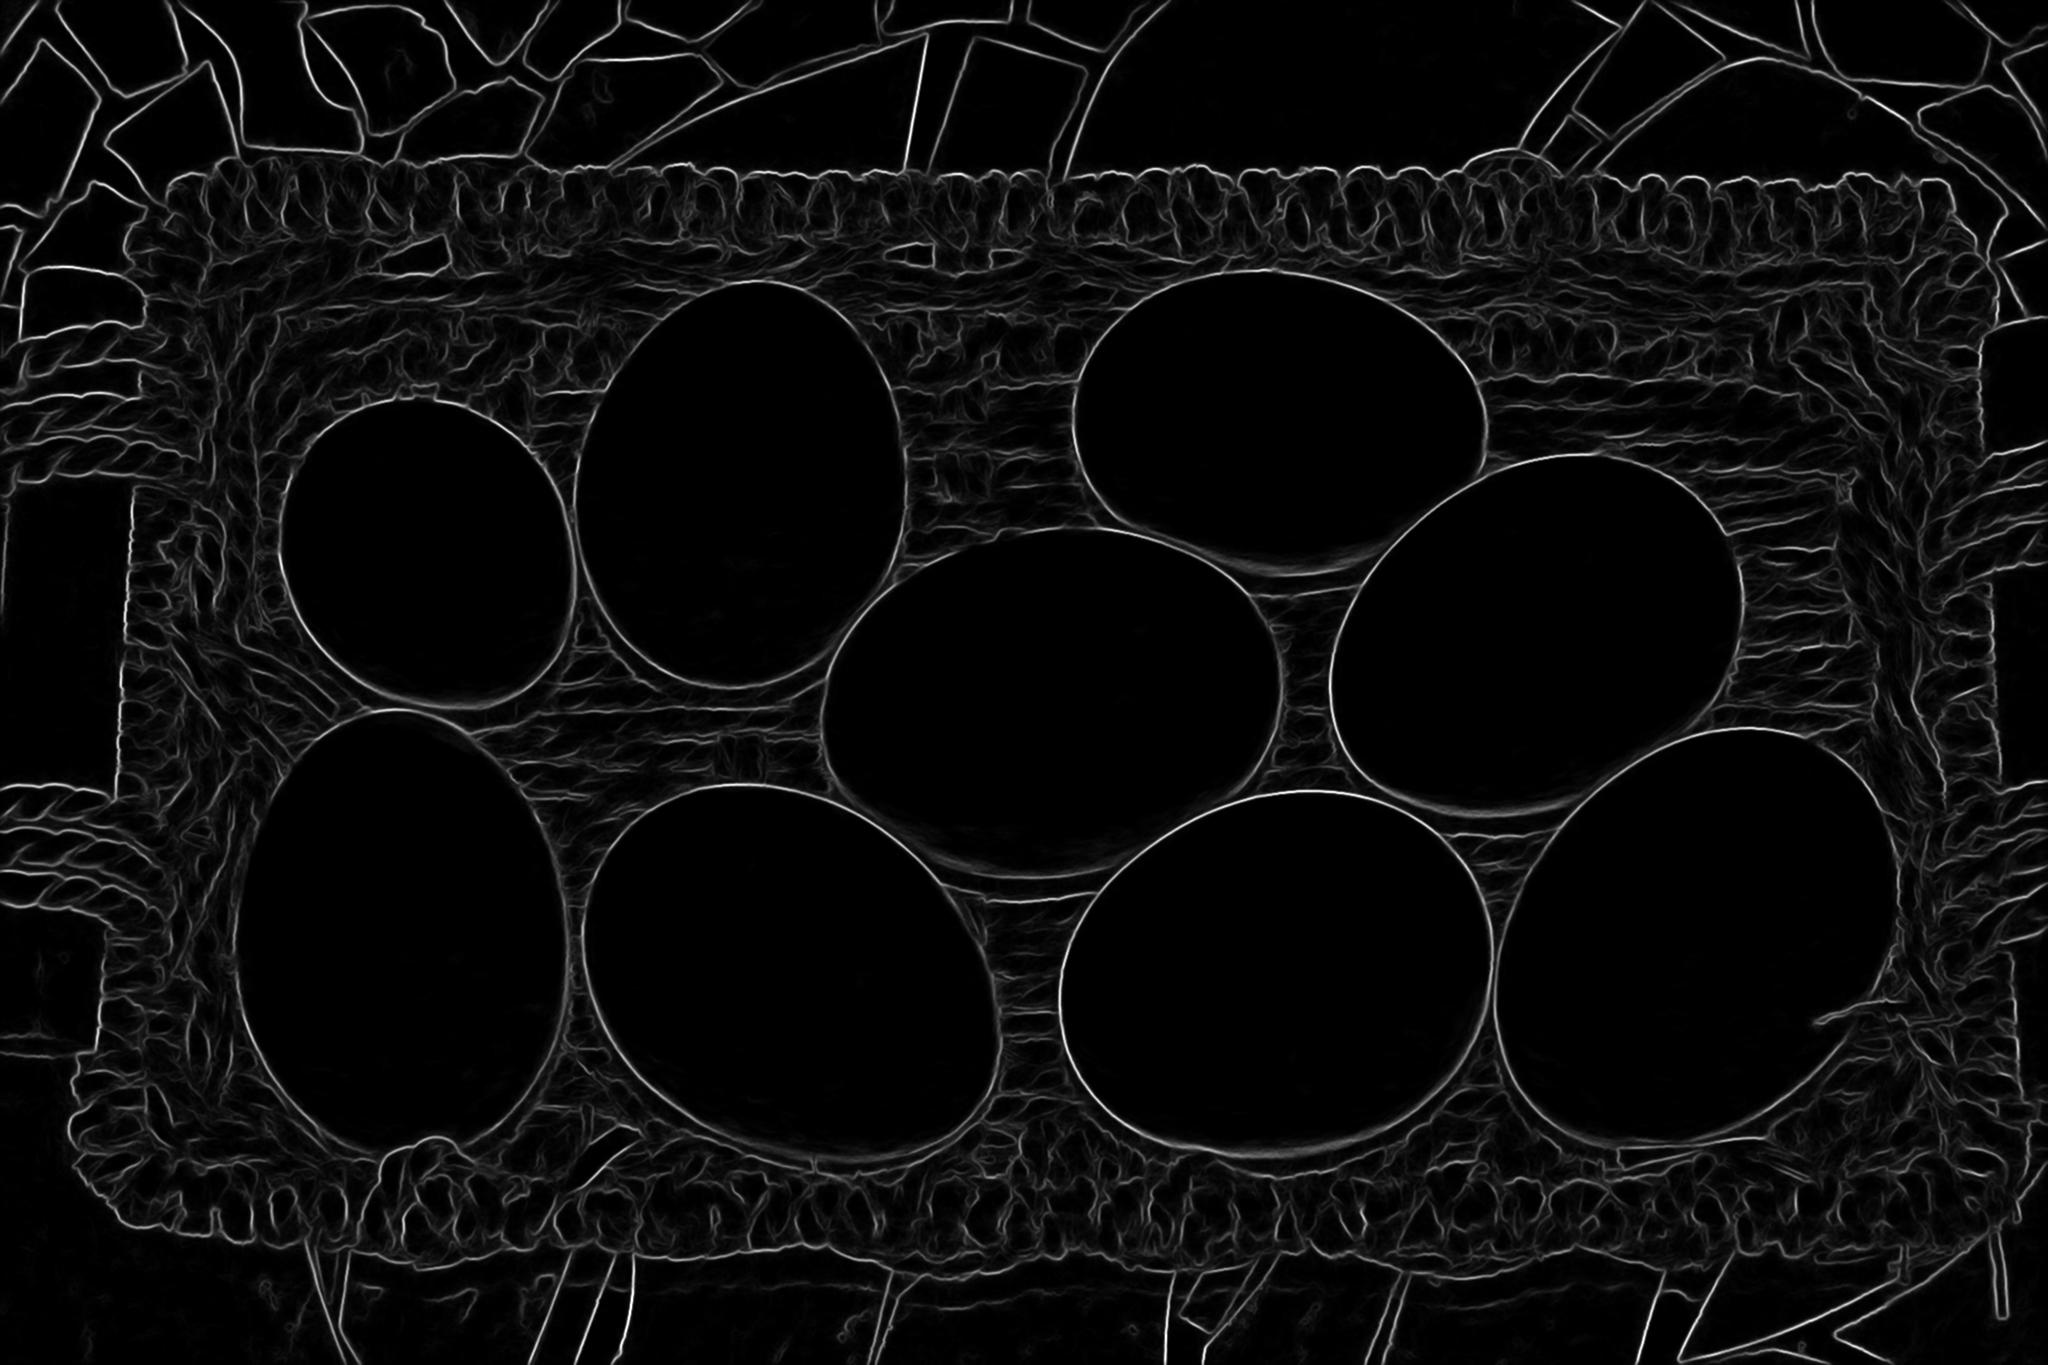
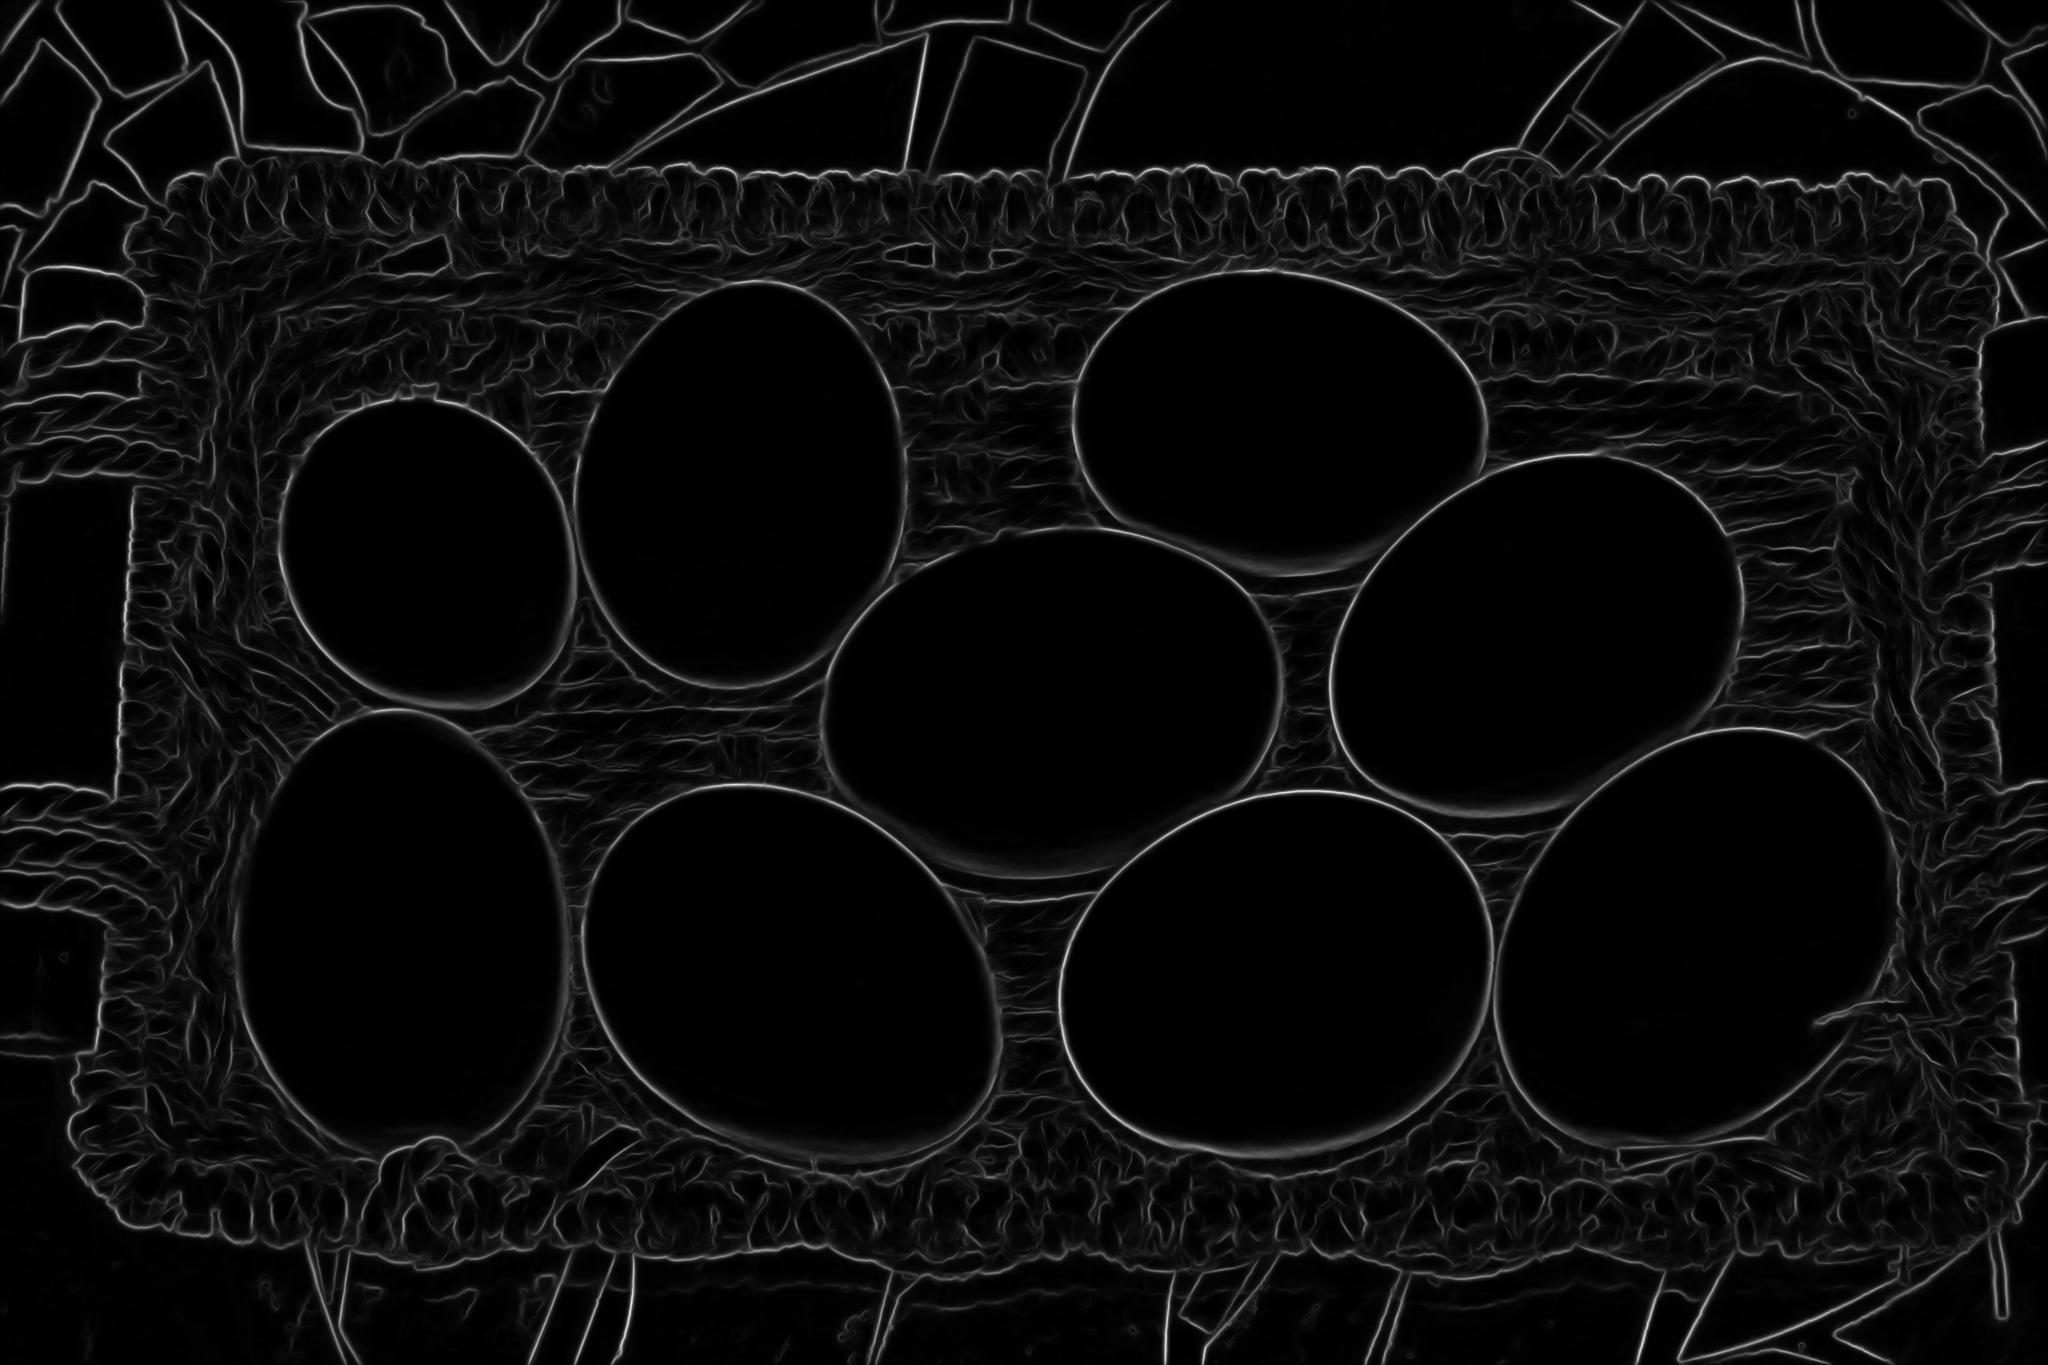
run hed edge

diff --git a/src/find_repeat_pattern.py b/src/find_repeat_pattern.py
@@ -11,6 +11,7 @@ from canny import canny_edge_detect
 from utils import check_overlap, avg_img_gradient, evaluate_detection_performance
 from misc import check_and_cluster, ContourDrawer
 from ipdb import set_trace as pdb
+from tqdm import tqdm
 
 GREEN = (0, 255, 0)
 BLUE = (255, 0, 0)
@@ -39,14 +40,19 @@ _gray_value_redistribution_local = True
 _evaluate = False
 
 input_path = '../input/image/'
-edge_path = '../input/edge_image/'  # structure forest output
-output_path = '../output/'
+# edge_path = '../input/edge_image/'  # structure forest output
+# output_path = '../output/'
+edge_path = '../input/hed_edge_image/'  # hed edge
+output_path = '../output_hed/'
+
 csv_output = '../output_csv_6_8[combine_result_before_filter_obvious]/'
 evaluate_csv_path = '../evaluate_data/groundtruth_csv/generalize_csv/'
 
-DRAW_PROCESS = True
-TEST = True
-TEST_IMG = 'IMG_ (33).jpg'
+DRAW_PROCESS = False
+IMG_LIST = ['IMG_ (19).jpg', 'IMG_ (28).jpg', 'IMG_ (29).jpg', ]
+TEST = False
+TEST_IMG = 'IMG_ (1).jpg'
+EXCEPTION_LIST = ['IMG_ (3).jpg', 'IMG_ (9).jpg']
 
 def get_edge_group(drawer, edged, edge_type, do_enhance=False, do_draw=False):
     if do_draw:
@@ -82,7 +88,8 @@ max_time = 0.0
 evaluation_csv = [['Image name', 'TP', 'FP', 'FN', 'Precision', 'Recall', 'F_measure', 'Error_rate']]
 
 
-for i, img_name in enumerate(os.listdir(input_path)):
+# for i, img_name in enumerate(tqdm(os.listdir(input_path))):
+for i, img_name in enumerate(tqdm(IMG_LIST)):
     start_time = time.time()
 
     if TEST:
@@ -101,8 +108,12 @@ for i, img_name in enumerate(os.listdir(input_path)):
     # decide whcih method (canny/structure forest)
     _use_structure_edge = True
     if _use_structure_edge:
-        edge_img = edge_path + img_name + '_edge.jpg'
-        assert os.path.isfile(edge_img), 'EDGE FILE does not exist!'
+        # edge_img = edge_path + img_name + '_edge.jpg'
+        edge_img = edge_path + img_name + '_hed.png'
+        # assert os.path.isfile(edge_img), 'EDGE FILE does not exist!'
+        if not os.path.isfile(edge_img):
+            print('EDGE FILE does not exist!')
+            continue
 
     # combine two edge detection result
     final_differ_edge_group = []

diff --git a/legacy_code/find_repeat_pattern.py b/legacy_code/find_repeat_pattern.py
@@ -67,11 +67,11 @@ _showImg = {'original_image': False, 'original_edge': False, 'enhanced_edge': Fa
             'original_result': False, 'each_obvious_result': False, 'combine_obvious_result': False,
             'obvious_histogram': False, 'each_group_result': False, 'result_obvious': False,
             'final_each_group_result': False, 'final_result': False}
-_writeImg = {'original_image': True, 'original_edge': True, 'enhanced_edge': True, 'original_contour': True,
-             'contour_filtered': True, 'size': True, 'shape': True, 'color': True, 'cluster_histogram': True,
-             'original_result': True, 'each_obvious_result': True, 'combine_obvious_result': True,
-             'obvious_histogram': True, 'each_group_result': True, 'result_obvious': True,
-             'final_each_group_result': True, 'final_result': True}
+_writeImg = {'original_image': False, 'original_edge': False, 'enhanced_edge': False, 'original_contour': False,
+             'contour_filtered': False, 'size': False, 'shape': False, 'color': False, 'cluster_histogram': False,
+             'original_result': False, 'each_obvious_result': False, 'combine_obvious_result': False,
+             'obvious_histogram': False, 'each_group_result': False, 'result_obvious': False,
+             'final_each_group_result': False, 'final_result': True}
 
 _show_resize = [(720, 'height'), (1200, 'width')][0]
 
